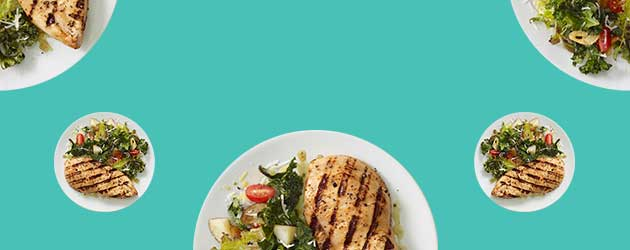
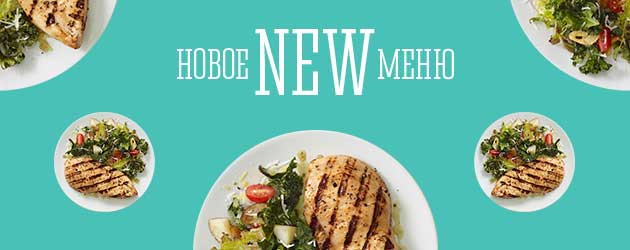
special fix from troll

Changed region(s): [[0.2714, 0.112, 0.7238, 0.392]]

diff --git a/sass/nikolay.scss b/sass/nikolay.scss
@@ -1,28 +1,29 @@
 /*ебаут ас))))*/
-.about-us-wrapper{
-    .about-us-align{
-        .about-title{
-            span{}
-        }
-        .img-wrapp{
-            .img-ctrl{
-                .img-text-block{
-                    .text-logo{
-                        img{}
-                    }
-                    .text-box{
-                        .text-box-title{
-                            span{}
-                        }
-                        .text-box-desc{
-                            span{}
-                        }
-                    }
-                }
+    .about-us-wrapper{
+        .about-us-align{
+            .about-title{text-align: center;     margin-bottom: 82px;
+                span{font-family: 'Merel';font-weight:700; text-transform:uppercase;font-size: 20rem;}
+            }
+            .img-wrapp{margin-bottom: 63px;}
+            .about-text{text-align: center;
+                span{font-family: 'Merel';font-weight: 500; font-size: 14rem;}
             }
         }
     }
-}
-
 
 /*/ебаут ас))))*/
+/*special*/
+    .special-wrapper{
+        .special-align{
+            .special-title{text-align: center;     margin-bottom: 82px;
+                span{font-family: 'Merel';font-weight:700; text-transform:uppercase;font-size: 20rem;}
+            }
+            .img-wrapp{margin-bottom: 63px;
+                .img-menu{}
+                .img-tort{}
+            }
+        }
+    }
+
+
+/*/special*/

diff --git a/css/nikolay.css b/css/nikolay.css
@@ -1,3 +1,47 @@
 @charset "UTF-8";
 /*ебаут ас))))*/
+.about-us-wrapper .about-us-align .about-title {
+  text-align: center;
+  margin-bottom: 82px;
+}
+
+.about-us-wrapper .about-us-align .about-title span {
+  font-family: 'Merel';
+  font-weight: 700;
+  text-transform: uppercase;
+  font-size: 20rem;
+}
+
+.about-us-wrapper .about-us-align .img-wrapp {
+  margin-bottom: 63px;
+}
+
+.about-us-wrapper .about-us-align .about-text {
+  text-align: center;
+}
+
+.about-us-wrapper .about-us-align .about-text span {
+  font-family: 'Merel';
+  font-weight: 500;
+  font-size: 14rem;
+}
+
 /*/ебаут ас))))*/
+/*special*/
+.special-wrapper .special-align .special-title {
+  text-align: center;
+  margin-bottom: 82px;
+}
+
+.special-wrapper .special-align .special-title span {
+  font-family: 'Merel';
+  font-weight: 700;
+  text-transform: uppercase;
+  font-size: 20rem;
+}
+
+.special-wrapper .special-align .img-wrapp {
+  margin-bottom: 63px;
+}
+
+/*/special*/

diff --git a/partials/about-us.php b/partials/about-us.php
@@ -1,15 +1,14 @@
-<div class="about-us-wrapper">
-    <div class="about-us-align">
-        <div class="about-title"><span>уютное кафе в центре москвы "кафетеррия"</span></div>
-        <div class="img-wrapp">
-            <div class="img-ctrl">
-                <div class="img-text-block">
-                    <div class="text-logo"><img src="" alt=""></div>
-                    <div class="text-box">
-                        <div class="text-box-title"><span>кафетеррия</span></div>
-                        <div class="text-box-desc"><span>сеть кафе-кондитерских</span></div>
-                    </div>
-                </div>
+<div class="mbox">
+    <div class="about-us-wrapper">
+        <div class="about-us-align">
+            <div class="about-title"><span>уютное кафе в центре москвы "кафетеррия"</span></div>
+            <div class="img-wrapp">
+                <img src="images/about.jpg" alt="">
+
+            </div>
+            <div class="about-text">
+                <span>Caffeterria — это молодой, развивающийся сетевой бренд. В наших кафе Caffeterria мы предлагаем Вам концепцию здорового, недорогого общественного питания  с использованием натуральных продуктов. У нас всегда широкий выбор хлебобулочных, кондитерских изделий собственного производства, а также большой выбор сэндвичей, салатов и горячих блюд.
+                </span>
             </div>
         </div>
     </div>

diff --git a/partials/special.php b/partials/special.php
@@ -1,0 +1,11 @@
+<div class="mbox">
+    <div class="special-wrapper">
+        <div class="special-align">
+            <div class="special-title"><span>специальные предложения</span></div>
+            <div class="img-wrapp">
+                <div class="img-menu"><img src="images/new-menu.jpg" alt=""></div>
+                <div class="img-tort"><img src="images/tort.jpg" alt=""></div>
+            </div>
+        </div>
+    </div>
+</div>
